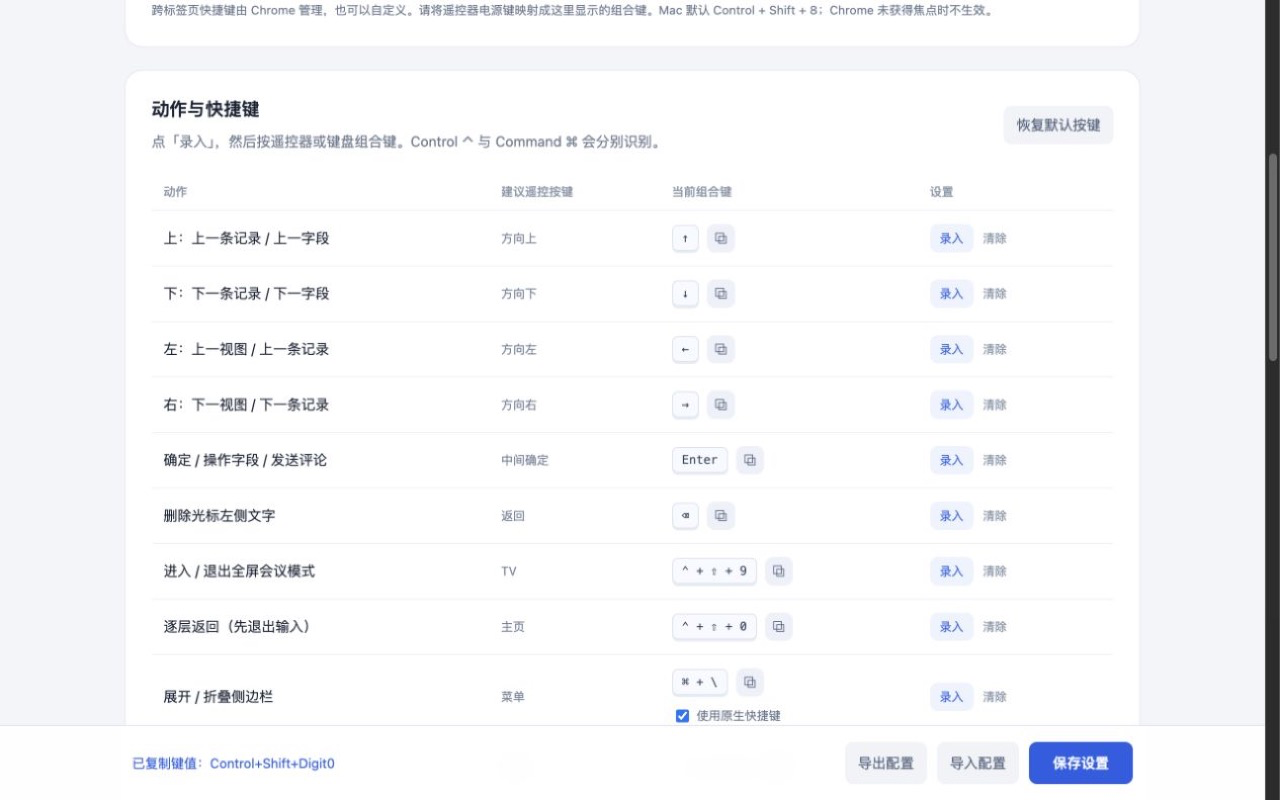
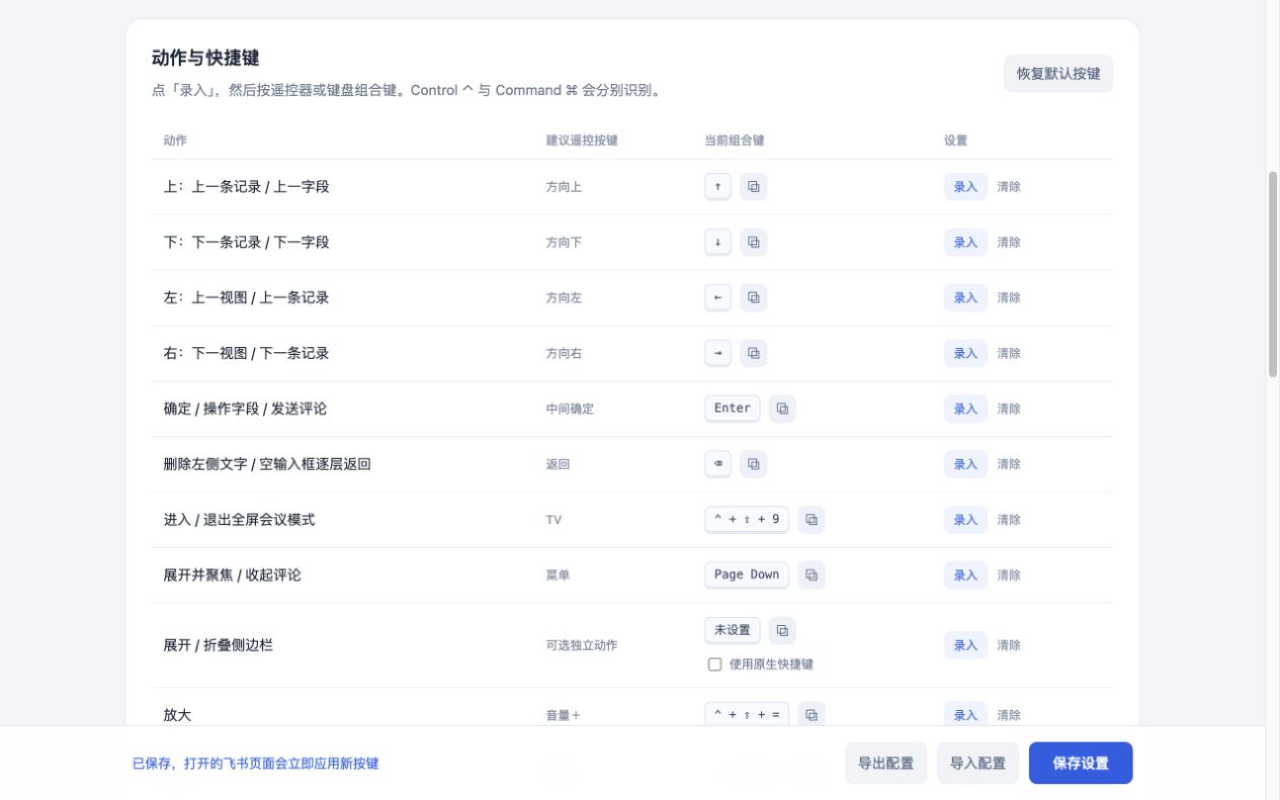
Improve remote controls and fix native field navigation

diff --git a/extension/options.html b/extension/options.html
@@ -1,9 +1,9 @@
 <!doctype html><html lang="zh-CN"><head><meta charset="utf-8"><meta name="viewport" content="width=device-width,initial-scale=1"><title>飞书会议遥控器 · 按键设置</title><link rel="icon" type="image/png" sizes="32x32" href="icons/32.png"><link rel="stylesheet" href="options.css"></head><body>
 <main><header><div class="mark"><img src="icons/256.png" width="72" height="72" alt="飞书会议遥控器"></div><div><p class="eyebrow">FEISHU MEETING REMOTE</p><h1>把遥控器，设成你的习惯。</h1><p class="intro">先在映射软件中设置按键组合，再在这里按一次对应按键。所有动作都可以修改。</p></div></header>
-<section class="setup"><div><h2>会议演示</h2><p>自动识别飞书多维表格，无需填写链接。TV 键进入全屏并开启遥控，再按一次退出会议并恢复窗口。</p></div><div class="preferences"><label><input id="autoEnable" type="checkbox"> 打开多维表格时自动进入全屏会议</label><label><input id="showHud" type="checkbox"> 显示底部操作提示</label><label>缩放步长 <input id="zoomStep" type="number" min="5" max="25" step="5"> %</label></div><p class="note">Mac 如需隐藏标签页和地址栏，请在 Chrome「显示」菜单取消勾选「在全屏模式下始终显示工具栏」，只需设置一次。</p></section>
-<section class="global-shortcut"><div class="section-top"><div><h2>电源键 · 回到会议表格</h2><p>打开超链接或切换标签页后，一键回到最近开启会议模式的多维表格。</p></div><div class="shortcut-display"><kbd id="meetingShortcut">正在读取…</kbd><button id="copyMeetingShortcut" class="copy-btn" title="复制键值" aria-label="复制电源键快捷键" disabled>⧉</button></div></div><button id="globalShortcut" class="secondary">设置电源键快捷键</button><p class="note">跨标签页快捷键由 Chrome 管理，也可以自定义。请将遥控器电源键映射成这里显示的组合键。Mac 默认 Control + Shift + 8；Chrome 未获得焦点时不生效。</p></section>
+<section class="setup"><div><h2>会议演示</h2><p>自动识别飞书多维表格，无需填写链接。TV 键进入全屏、自动收起侧边栏并开启遥控；再按一次退出会议，恢复窗口及原侧边栏状态。</p></div><div class="preferences"><label><input id="autoEnable" type="checkbox"> 打开多维表格时自动进入全屏会议</label><label><input id="showHud" type="checkbox"> 显示底部操作提示</label><label>缩放步长 <input id="zoomStep" type="number" min="5" max="25" step="5"> %</label></div><p class="note">Mac 如需隐藏标签页和地址栏，请在 Chrome「显示」菜单取消勾选「在全屏模式下始终显示工具栏」，只需设置一次。</p></section>
+<section class="global-shortcut"><div class="section-top"><div><h2>Home 键 · 回到会议表格</h2><p>打开超链接或切换标签页后，一键回到正在会议模式的多维表格。</p></div><div class="shortcut-display"><kbd id="meetingShortcut">正在读取…</kbd><button id="copyMeetingShortcut" class="copy-btn" title="复制键值" aria-label="复制 Home 键快捷键" disabled>⧉</button></div></div><button id="globalShortcut" class="secondary">设置 Home 键快捷键</button><p class="note">跨标签页快捷键由 Chrome 管理，也可以自定义。请将遥控器 Home 键映射成这里显示的组合键。新安装默认 Control + Shift + 0；升级后 Chrome 可能保留原组合键，请以此处显示为准。Chrome 未获得焦点时不生效。</p></section>
 <section><div class="section-top"><div><h2>动作与快捷键</h2><p>点「录入」，然后按遥控器或键盘组合键。Control ⌃ 与 Command ⌘ 会分别识别。</p></div><button id="restore" class="subtle">恢复默认按键</button></div><div class="table-wrap"><table><thead><tr><th>动作</th><th>建议遥控按键</th><th>当前组合键</th><th>设置</th></tr></thead><tbody id="bindings"></tbody></table></div><p class="note">有原生等价操作的项目可开启「使用原生快捷键」。开启后显示飞书原生组合键，扩展直接放行该按键；请把遥控器也映射为该组合键。关闭开关可恢复原自定义键。<a href="https://www.feishu.cn/hc/zh-CN/articles/360049067880" target="_blank" rel="noopener noreferrer">飞书官方快捷键说明</a></p><p class="note">系统和 Chrome 保留的快捷键可能先被系统处理。录入后请用下方检测区确认页面确实能收到。双击和长按动作由你的映射软件转换成不同组合键。每项旁的 ⧉ 可复制标准键值（如 Control+Shift+Digit0）。</p></section>
 <section class="tester"><div><p class="eyebrow">KEY CHECK</p><h2>按键检测</h2><p>点击开始，连续按几次遥控器，查看组合键和连发是否正确。</p><button id="testToggle" class="secondary">开始检测</button></div><div><div id="lastKey" class="last-key">等待按键</div><pre id="keyLog" aria-live="polite">检测内容仅在此页面显示。</pre></div></section>
-<section class="notes"><h2>你的会议操作</h2><p>列表：上下切记录，左右切视图，确定展开详情。详情：上下聚焦字段并滚动长文本，左右切记录，确定操作字段或在新标签页打开链接。最后一个焦点是评论入口；也可绑定「展开评论并聚焦」。菜单开关侧边栏，音量连续调缩放。</p><p>返回键只删除光标左侧文字，支持长按。Home 先退出输入状态，再收起评论、关闭详情。文字输入或选词时，方向键交给输入框。电源键负责从其他标签页找回会议表格。</p><p>语音键继续使用原来的输入法。文字落入评论框后，再按发送。有草稿时，收起评论会保留输入框；切记录、切视图或关闭详情会先要求处理草稿。</p><p>安装或更新扩展后，请刷新飞书页面。除电源键外，此页录入的按键在多维表格内容区生效。导入 / 导出仅包含这里录入的按键，电源键由 Chrome 单独保存。</p><p>数据仅在本机处理：记录文字用于定位，最近会议链接在浏览器会话中保存。<a href="https://github.com/YinsenWANG/feishu-meeting-remote/blob/main/PRIVACY.md" target="_blank" rel="noopener noreferrer">隐私政策</a></p></section>
+<section class="notes"><h2>你的会议操作</h2><p>列表：上下切记录，左右切视图，确定展开详情。详情：上下聚焦字段并滚动长文本，左右切记录，确定操作字段或在新标签页打开链接。最后一个焦点是评论入口；也可绑定「展开评论并聚焦」。菜单键切换评论，展开时自动聚焦输入框；音量连续调缩放。</p><p>返回键在有文字时删除左侧字符；输入框为空或未在输入时逐层返回：退出输入、收起评论、关闭详情。长按只连续删字，删空后松开再按才返回。文字输入或选词时，方向键交给输入框。Home 键从其他标签页找回会议表格。电源键默认留空，可选设置为「逐层返回（备用）」：有文字时也能直接退出输入而不删字；也可设置为「恢复 100%」。</p><p>语音键继续使用原来的输入法。文字落入评论框后，再按发送。有草稿时，收起评论会保留输入框；切记录、切视图或关闭详情会先要求处理草稿。</p><p>安装或更新扩展后，请刷新飞书页面。除 Home 键外，此页录入的按键在多维表格内容区生效。导入 / 导出仅包含这里录入的按键，Home 键由 Chrome 单独保存。</p><p>数据仅在本机处理：记录文字用于定位，最近会议链接在浏览器会话中保存。<a href="https://github.com/YinsenWANG/feishu-meeting-remote/blob/main/PRIVACY.md" target="_blank" rel="noopener noreferrer">隐私政策</a></p></section>
 <footer><span id="feedback" role="status"></span><div><button id="export" class="subtle">导出配置</button><button id="import" class="subtle">导入配置</button><input id="importFile" type="file" accept="application/json,.json" hidden><button id="save" class="primary">保存设置</button></div></footer>
 </main><script src="shared.js"></script><script src="options.js"></script></body></html>

diff --git a/extension/shared.js b/extension/shared.js
@@ -6,10 +6,10 @@
     ['navigateLeft','左：上一视图 / 上一条记录','方向左','ArrowLeft',false],
     ['navigateRight','右：下一视图 / 下一条记录','方向右','ArrowRight',false],
     ['confirm','确定 / 操作字段 / 发送评论','中间确定','Enter',false],
-    ['deleteBackward','删除光标左侧文字','返回','Backspace',true],
+    ['deleteBackward','删除左侧文字 / 空输入框逐层返回','返回','Backspace',true],
     ['toggle','进入 / 退出全屏会议模式','TV','Control+Shift+Digit9',false],
-    ['home','逐层返回（先退出输入）','主页','Control+Shift+Digit0',false],
-    ['toggleSidebar','展开 / 折叠侧边栏','菜单','PageDown',false],
+    ['toggleComments','展开并聚焦 / 收起评论','菜单','PageDown',false],
+    ['toggleSidebar','展开 / 折叠侧边栏','可选独立动作','',false],
     ['zoomIn','放大','音量＋','Control+Shift+Equal',true],
     ['zoomOut','缩小','音量－','Control+Shift+Minus',true],
     ['back','逐层返回（备用）','可选独立动作','Escape',false],
@@ -23,7 +23,7 @@
     ['firstView','回到首个视图','可选独立动作','',false],
     ['previousRecord','上一条记录（独立）','可选独立动作','',true],
     ['nextRecord','下一条记录（独立）','可选独立动作','',true],
-    ['resetZoom','恢复 100%','可选独立动作','',false]
+    ['resetZoom','恢复 100%','电源（可选）','',false]
   ].map(([id,label,remote,binding,repeat])=>({id,label,remote,binding,repeat}));
   const isMac=()=>typeof navigator==='undefined'||/Mac|iPhone|iPad/.test(navigator.platform||navigator.userAgent);
   const NATIVE={
@@ -33,7 +33,7 @@
   const nativeBinding=id=>NATIVE[id]?.[isMac()?'mac':'win']||'';
   const bindingFor=(id,c)=>c.nativeBindings?.[id]?nativeBinding(id):c.bindings[id];
   ACTIONS.find(a=>a.id==='openDetail').binding=nativeBinding('openDetail');
-  const DEFAULTS={schemaVersion:3,nativeBindings:{openDetail:false,toggleSidebar:false},autoEnable:false,showHud:true,zoomStep:10,bindings:Object.fromEntries(ACTIONS.map(a=>[a.id,a.binding]))};
+  const DEFAULTS={schemaVersion:4,nativeBindings:{openDetail:false,toggleSidebar:false},autoEnable:false,showHud:true,zoomStep:10,bindings:Object.fromEntries(ACTIONS.map(a=>[a.id,a.binding]))};
   const MODIFIERS=['Control','Alt','Shift','Meta'];
   function chord(e) {
     if (!e.code || /^(Control|Alt|Shift|Meta)(Left|Right)$/.test(e.code)) return '';
@@ -64,16 +64,24 @@
   function config(input={}) {
     if(!input||typeof input!=='object'||Array.isArray(input))throw new Error('配置格式无效。');
     const incoming={...(input.bindings||{})};
-    if(input.schemaVersion!==3&&input.bindings){
+    if(![3,4].includes(input.schemaVersion)&&input.bindings){
       for(const [old,id] of Object.entries({previousRecord:'navigateUp',nextRecord:'navigateDown',previousView:'navigateLeft',nextView:'navigateRight'})){
         if(Object.hasOwn(incoming,old)){if(!Object.hasOwn(incoming,id))incoming[id]=incoming[old];delete incoming[old];}
       }
       if(input.schemaVersion!==2&&Object.hasOwn(incoming,'scrollDown')&&!Object.hasOwn(incoming,'toggleSidebar')){incoming.toggleSidebar=incoming.scrollDown||'';incoming.scrollDown='';}
-      // Deletion must no longer double as Back. Home keeps its user's existing chord.
+      // Retire the old duplicate Backspace binding; the deletion action now handles returning.
       if(incoming.back&&incoming.back===(incoming.deleteBackward??DEFAULTS.bindings.deleteBackward))incoming.back='';
       if(!Object.hasOwn(incoming,'openComments')&&Object.values(incoming).includes(DEFAULTS.bindings.openComments))incoming.openComments='';
     }
-    const c={...DEFAULTS,...input,bindings:{...DEFAULTS.bindings,...incoming},nativeBindings:Object.fromEntries(Object.keys(NATIVE).map(id=>[id,input.nativeBindings?.[id]===true]))};
+    const nativeBindings=Object.fromEntries(Object.keys(NATIVE).map(id=>[id,input.nativeBindings?.[id]===true]));
+    if(input.schemaVersion!==4&&input.bindings){
+      if(!Object.hasOwn(incoming,'toggleComments')){
+        incoming.toggleComments=nativeBindings.toggleSidebar?nativeBinding('toggleSidebar'):(incoming.toggleSidebar??DEFAULTS.bindings.toggleComments);
+        incoming.toggleSidebar='';nativeBindings.toggleSidebar=false;
+      }
+      delete incoming.home; // Home is a browser command so it also works on other websites.
+    }
+    const c={...DEFAULTS,...input,bindings:{...DEFAULTS.bindings,...incoming},nativeBindings};
     if(!Number.isFinite(c.zoomStep)||c.zoomStep<5||c.zoomStep>25)throw new Error('缩放步长需要在 5–25 之间。');
     const used=new Map();
     for(const a of ACTIONS){
@@ -82,18 +90,20 @@
       if(v&&used.has(v))throw new Error(a.label+' 与「'+used.get(v).label+'」使用了相同快捷键。');
       if(v)used.set(v,a);
     }
-    return {schemaVersion:3,autoEnable:!!c.autoEnable,showHud:!!c.showHud,zoomStep:c.zoomStep,nativeBindings:c.nativeBindings,bindings:Object.fromEntries(ACTIONS.map(a=>[a.id,c.bindings[a.id]]))};
+    return {schemaVersion:4,autoEnable:!!c.autoEnable,showHud:!!c.showHud,zoomStep:c.zoomStep,nativeBindings:c.nativeBindings,bindings:Object.fromEntries(ACTIONS.map(a=>[a.id,c.bindings[a.id]]))};
   }
   function actionFor(value,c){return ACTIONS.find(a=>bindingFor(a.id,c)&&bindingFor(a.id,c)===value);}
   const DIRECTIONS={navigateUp:'up',navigateDown:'down',navigateLeft:'left',navigateRight:'right'};
-  function inputPolicy(action,chord,context,{native=false,popup=false}={}){
+  function inputPolicy(action,chord,context,{native=false,popup=false,emptyInput=false,repeat=false}={}){
     const editing=['comment','other','grid-edit'].includes(context);
+    // Holding delete may erase text, but must never cascade through return levels.
+    if(action.id==='deleteBackward'&&repeat&&(!editing||emptyInput))return 'block';
     if(editing&&/^((Control|Alt|Shift|Meta)\+)*Arrow(Up|Down|Left|Right)$/.test(chord))return 'pass';
     if(editing&&DIRECTIONS[action.id])return 'caret';
-    if(editing&&action.id==='deleteBackward'&&chord==='Backspace')return 'pass';
-    if(editing&&!['toggle','zoomIn','zoomOut','resetZoom','deleteBackward','home','back','closeComments','openComments','confirm','sendComment'].includes(action.id))return 'pass';
+    if(editing&&action.id==='deleteBackward'&&chord==='Backspace'&&!emptyInput)return 'pass';
+    if(editing&&!['toggle','zoomIn','zoomOut','resetZoom','deleteBackward','back','toggleComments','closeComments','openComments','confirm','sendComment'].includes(action.id))return 'pass';
     if(editing&&context!=='comment'&&['confirm','sendComment'].includes(action.id))return 'pass';
-    if(popup&&editing&&!['home','back','toggle'].includes(action.id))return 'pass';
+    if(popup&&editing&&!['back','toggle','toggleComments'].includes(action.id)&&!(action.id==='deleteBackward'&&emptyInput))return 'pass';
     if(native)return editing?'pass':'native';
     return 'run';
   }

diff --git a/extension/adapter.js b/extension/adapter.js
@@ -107,6 +107,7 @@
       menu.click();if(!await waitFor(()=>this.card()))throw new Error('详情未能展开。');
     }
     restoreHidden(){if(this.hiddenPanel){this.hiddenPanel.hidden=false;this.hiddenPanel.style.removeProperty('display');this.hiddenPanel=null;}}
+    async toggleComments(){return this.commentsOpen()?this.closeComments():this.openComments();}
     async openComments(){
       if(!this.card())await this.openDetail();
       this.restoreHidden();
@@ -169,6 +170,15 @@
       if(!await waitFor(()=>this.sidebarExpanded()===!expanded))throw new Error('侧边栏尚未完成切换，请稍后再试。');
       this.notify(expanded?'侧边栏已折叠':'侧边栏已展开');
     }
+    async collapseSidebarForMeeting(){
+      if(this.meetingSidebar)return;
+      const expanded=this.sidebarExpanded();this.meetingSidebar={path:location.pathname,expanded};
+      if(expanded===true)await this.toggleSidebar();
+    }
+    async restoreMeetingSidebar(){
+      const original=this.meetingSidebar;this.meetingSidebar=null;
+      if(original?.path===location.pathname&&original.expanded===true&&this.sidebarExpanded()===false)await this.toggleSidebar();
+    }
     async send(){
       if(this.sending)return;
       const editor=this.editor();if(!visible(editor))throw new Error('请先打开评论输入框。');
@@ -186,16 +196,25 @@
       const area=areas.sort((a,b)=>b.clientHeight-a.clientHeight)[0];
       if(!area){this.notify('内容已完整显示');return;}area.scrollBy({top:direction*area.clientHeight*.8,behavior:'smooth'});
     }
-    deleteBackward(){
+    inputIsEmpty(){
+      const active=document.activeElement;
+      if(!['comment','other','grid-edit'].includes(this.inputContext({target:active})))return false;
+      const editor=active?.closest('input,textarea,[contenteditable="true"]');if(!editor)return false;
+      if(editor.matches('input,textarea'))return editor.value.length===0;
+      return !(editor.textContent||'').replace(/[\u200b\ufeff]/g,'')&&!editor.querySelector('img,video,audio,[data-mention-id],[data-file-token]');
+    }
+    async deleteBackward(){
       const e=document.activeElement;if(!e)return;
-      const inComment=this.editor()?.contains(e)||e===this.editor();
       const editable=e.isContentEditable||e.matches('textarea,input:not([type="button"]):not([type="checkbox"])');
-      if(!editable||!['comment','other','grid-edit'].includes(this.inputContext({target:e})))return;
+      if(!editable||!['comment','other','grid-edit'].includes(this.inputContext({target:e}))||this.inputIsEmpty())return this.back();
       // Browser editing commands preserve the editor's input events and undo stack.
       document.execCommand('delete',false);
     }
     inputContext(e){
       const node=e.target?.nodeType===1?e.target:document.activeElement;
+      // URL field links inherit contenteditable from Feishu's rich-text wrapper.
+      // A link explicitly focused by field navigation is still an action, not a caret.
+      if(this.fieldFocus?.element===node&&node.hasAttribute('data-fmr-target'))return 'none';
       const editable=node?.closest('input,textarea,[contenteditable="true"]');
       if(!editable||!visible(editable)||getComputedStyle(editable).opacity==='0'||editable.disabled||editable.readOnly||editable.matches('input[type="button"],input[type="checkbox"],input[type="radio"],input[type="submit"],input[type="range"],input[type="file"],input[type="color"]'))return 'none';if(this.editor()?.contains(editable)||editable===this.editor())return 'comment';
       if(editable.closest('.faster-overlay')){

diff --git a/extension/content.js b/extension/content.js
@@ -24,7 +24,7 @@
     shadow.querySelector('.bar').classList.toggle('paused',!enabled);
     const setText=(el,text)=>{if(el.textContent!==text)el.textContent=text;};
     status.style.color='#fff';setText(status,enabled?adapter.state()+' · '+Math.round(zoom*100)+'%':'会议模式已关闭');
-    setText(shadow.querySelector('.help'),enabled?`${adapter.card()?'上下浏览字段 · 左右换记录':'上下换记录 · 左右换视图'}　${M.label(config.bindings.confirm)} 确定　${M.label(config.bindings.home)} 返回`:`按 ${M.label(config.bindings.toggle)} 进入全屏 · ${adapter.viewName()}`);
+    setText(shadow.querySelector('.help'),enabled?`${adapter.card()?'上下浏览字段 · 左右换记录':'上下换记录 · 左右换视图'}　${M.label(config.bindings.confirm)} 确定　${M.label(config.bindings.deleteBackward)} 返回`:`按 ${M.label(config.bindings.toggle)} 进入全屏 · ${adapter.viewName()}`);
     setText(shadow.querySelector('.toggle'),enabled?'退出会议':'进入全屏');
   }
   async function zoomAction(direction){const r=await chrome.runtime.sendMessage({type:'zoom',direction});if(!r?.ok)throw new Error(r?.error||'缩放失败');zoom=r.zoom;notify('缩放 '+Math.round(zoom*100)+'%');}
@@ -38,6 +38,7 @@
       if(remember)sessionStorage.setItem(modeKey(),String(value));
       if(!enabled){adapter.restoreHidden();adapter.clearFieldFocus();}
       update();
+      try{if(enabled)await adapter.collapseSidebarForMeeting();else await adapter.restoreMeetingSidebar();}catch(e){notify(e.message,true);}
       if(enabled&&!adapter.card()){try{await adapter.ensureSelection();}catch(e){notify(e.message,true);}}
       return {ok:true,enabled};
     }catch(e){notify(e.message,true);return {ok:false,error:e.message};}
@@ -78,10 +79,10 @@
         case 'nextRecord':await adapter.moveRecord(1);break;
         case 'confirm':await adapter.confirm();break;
         case 'back':await adapter.back();break;
-        case 'home':await adapter.back();break;
         case 'firstView':await adapter.firstView();break;
         case 'toggleSidebar':await adapter.toggleSidebar();break;
-        case 'deleteBackward':adapter.deleteBackward();break;
+        case 'deleteBackward':await adapter.deleteBackward();break;
+        case 'toggleComments':await adapter.toggleComments();break;
         case 'scrollDown':adapter.scroll(1);break;
         case 'scrollUp':adapter.scroll(-1);break;
         case 'openDetail':await adapter.openDetail();break;
@@ -101,11 +102,12 @@
     if(composing||e.isComposing||e.keyCode===229)return;
     const action=M.actionFor(M.chord(e),config);if(!action||(!enabled&&action.id!=='toggle'))return;
     const context=adapter.inputContext(e);
-    const policy=M.inputPolicy(action,M.chord(e),context,{native:config.nativeBindings[action.id],popup:adapter.editorPopupOpen()});
+    const policy=M.inputPolicy(action,M.chord(e),context,{native:config.nativeBindings[action.id],popup:adapter.editorPopupOpen(),emptyInput:action.id==='deleteBackward'&&adapter.inputIsEmpty(),repeat:e.repeat});
     if(policy==='pass'||policy==='native')return;
     if(context==='comment'&&Date.now()-compositionEnded<200&&['confirm','sendComment'].includes(action.id))return;
     if(policy==='caret'){e.preventDefault();e.stopImmediatePropagation();adapter.moveCaret(M.DIRECTIONS[action.id]);return;}
     e.preventDefault();e.stopImmediatePropagation();
+    if(policy==='block')return;
     if(e.repeat&&!action.repeat)return;
 
     const time=Date.now(),last=timings.get(action.id)||0,delay=M.keyDelay(action,context);

diff --git a/extension/field-navigation.js b/extension/field-navigation.js
@@ -3,16 +3,28 @@
   const M=globalThis.MeetingRemote, A=M.FeishuAdapter.prototype;
   const FIELD='.bitable-record-card-field-wrapper, .card-field-editor';
   const EDITOR='[contenteditable="true"], textarea, input:not([type="hidden"]):not([type="file"]):not([type="checkbox"]):not([type="radio"])';
-  const shown=e=>M.visible(e)&&!e.closest('[hidden],[aria-hidden="true"]');
+  const shown=e=>{
+    if(!M.visible(e)||e.closest('[hidden],[aria-hidden="true"]'))return false;
+    // Feishu keeps collapsed option lists laid out inside zero-height clipping containers.
+    // Their descendants have nonzero rectangles but cannot be seen or operated.
+    for(let parent=e.parentElement;parent;parent=parent.parentElement){
+      const style=getComputedStyle(parent),rect=parent.getBoundingClientRect();
+      if(style.opacity==='0'||style.visibility==='hidden'||style.display==='none')return false;
+      if((rect.height<=0&&/hidden|clip|auto|scroll/.test(style.overflowY||style.overflow))||
+         (rect.width<=0&&/hidden|clip|auto|scroll/.test(style.overflowX||style.overflow)))return false;
+    }
+    return true;
+  };
   const usable=e=>shown(e)&&!e.disabled&&!e.readOnly&&getComputedStyle(e).opacity!=='0';
   const label=field=>field.querySelector('.bitable-card-field-label__name')?.textContent.trim()||'字段';
   const arrow={up:'ArrowUp',down:'ArrowDown',left:'ArrowLeft',right:'ArrowRight'};
 
   A.clearFieldFocus=function(){
     if(this.fieldFocus){
-      const {field,element,tabindex}=this.fieldFocus;
+      const {field,element,tabindex,focusElement,focusTabindex}=this.fieldFocus;
       field.removeAttribute('data-fmr-focused');element.removeAttribute('data-fmr-target');
       if(tabindex===null)element.removeAttribute('tabindex');else element.setAttribute('tabindex',tabindex);
+      if(focusElement&&focusElement!==element){if(focusTabindex===null)focusElement.removeAttribute('tabindex');else focusElement.setAttribute('tabindex',focusTabindex);}
     }
     this.fieldFocus=null;
   };
@@ -37,10 +49,14 @@
   };
   A.focusStop=function(stop){
     this.clearFieldFocus();
-    this.fieldFocus={...stop,tabindex:stop.element.getAttribute('tabindex'),record:this.cardRecordId()};
+    // Focusing an anchor inside contenteditable can move the caret into its editor.
+    // Keep keyboard focus on the field while highlighting and activating its exact link.
+    const focusElement=stop.kind==='link'?stop.field:stop.element;
+    this.fieldFocus={...stop,focusElement,focusTabindex:focusElement.getAttribute('tabindex'),tabindex:stop.element.getAttribute('tabindex'),record:this.cardRecordId()};
     stop.element.setAttribute('tabindex','-1');
+    focusElement.setAttribute('tabindex','-1');
     stop.field.setAttribute('data-fmr-focused','');stop.element.setAttribute('data-fmr-target','');
-    stop.element.focus({preventScroll:true});
+    focusElement.focus({preventScroll:true});
     stop.element.scrollIntoView({block:'nearest',inline:'nearest',behavior:'instant'});
     this.notify(stop.kind==='comment'?'评论 · 按确定开始输入':label(stop.field)+(stop.kind==='link'?' · 按确定在新标签页打开':' · 按确定操作'));
   };

diff --git a/extension/options.js b/extension/options.js
@@ -47,9 +47,9 @@
   for(const id of ['autoEnable','showHud','zoomStep'])$(id).addEventListener('input',()=>{dirty=true;});
   $('save').onclick=async()=>{try{config=readForm();await chrome.storage.local.set({config});dirty=false;feedback('已保存，打开的飞书页面会立即应用新按键');}catch(e){feedback(e.message,true);}};
   $('restore').onclick=()=>{config.bindings={...M.DEFAULTS.bindings};config.nativeBindings={...M.DEFAULTS.nativeBindings};recording=null;dirty=true;render(false);feedback('已恢复默认按键，保存后生效');};
-  $('export').onclick=()=>{try{const data=readForm();const url=URL.createObjectURL(new Blob([JSON.stringify({format:'feishu-meeting-remote',version:3,config:data},null,2)],{type:'application/json'}));const a=document.createElement('a');a.href=url;a.download='飞书会议遥控器-按键配置.json';a.click();setTimeout(()=>URL.revokeObjectURL(url),1000);}catch(e){feedback(e.message,true);}};
+  $('export').onclick=()=>{try{const data=readForm();const url=URL.createObjectURL(new Blob([JSON.stringify({format:'feishu-meeting-remote',version:4,config:data},null,2)],{type:'application/json'}));const a=document.createElement('a');a.href=url;a.download='飞书会议遥控器-按键配置.json';a.click();setTimeout(()=>URL.revokeObjectURL(url),1000);}catch(e){feedback(e.message,true);}};
   $('import').onclick=()=>$('importFile').click();
-  $('importFile').onchange=async()=>{const file=$('importFile').files[0];if(!file)return;try{if(file.size>64000)throw new Error('配置文件过大');const obj=JSON.parse(await file.text());if(obj.format!=='feishu-meeting-remote'||![1,2,3].includes(obj.version))throw new Error('不是此扩展的配置文件');config=M.config(obj.config);recording=null;dirty=true;render();feedback('已导入，请检查后保存');}catch(e){feedback('导入失败：'+e.message,true);}finally{$('importFile').value='';}};
+  $('importFile').onchange=async()=>{const file=$('importFile').files[0];if(!file)return;try{if(file.size>64000)throw new Error('配置文件过大');const obj=JSON.parse(await file.text());if(obj.format!=='feishu-meeting-remote'||![1,2,3,4].includes(obj.version))throw new Error('不是此扩展的配置文件');config=M.config(obj.config);recording=null;dirty=true;render();feedback('已导入，请检查后保存');}catch(e){feedback('导入失败：'+e.message,true);}finally{$('importFile').value='';}};
   async function refreshGlobalShortcut(){
     try{const commands=await chrome.commands.getAll();const value=commands.find(c=>c.name==='return-to-meeting')?.shortcut||'';$('meetingShortcut').textContent=value||'未设置，请点击下方按钮';$('copyMeetingShortcut').disabled=!value;$('copyMeetingShortcut').onclick=()=>copyValue(value);}
     catch{$('meetingShortcut').textContent='请在 Chrome 扩展快捷键中设置';}

diff --git a/extension/background.js b/extension/background.js
@@ -47,22 +47,18 @@ async function presentation(sender,enabled){
 }
 async function returnToMeeting(){
   const {lastMeeting:last}=await chrome.storage.session.get('lastMeeting');
-  if(!last||!M.target(last.url))throw new Error('请先在一个多维表格中开启会议模式。');
-  let tab;
-  try {tab=await chrome.tabs.get(last.tabId);}catch{}
-  if(tab&&M.sameDocument(tab.pendingUrl||tab.url,last.url)){
+  const sessions=await readSessions(),active=Object.values(sessions).flatMap(session=>session.tabs);
+  const candidates=[...new Set([last?.tabId,...active.slice().reverse()])].filter(id=>active.includes(id));
+  for(const id of candidates){
+    let tab;try{tab=await chrome.tabs.get(id);}catch{continue;}
+    const url=tab.pendingUrl||tab.url;
+    if(!M.target(url)||(id===last?.tabId&&!M.sameDocument(url,last.url)))continue;
     await chrome.tabs.update(tab.id,{active:true});
     await chrome.windows.update(tab.windowId,{focused:true});
-  }else{
-    // Preserve a different page now occupying the original meeting tab.
-    let windowId;
-    try {await chrome.windows.get(last.windowId);windowId=last.windowId;}catch{}
-    tab=await chrome.tabs.create({url:last.url,active:true,...(windowId===undefined?{}:{windowId})});
-    await chrome.windows.update(tab.windowId,{focused:true});
-    await chrome.storage.session.set({lastMeeting:{...last,tabId:tab.id,windowId:tab.windowId}});
+    await chrome.storage.session.set({lastMeeting:{tabId:tab.id,windowId:tab.windowId,url}});
+    await chrome.action.setBadgeText({text:''});return {ok:true};
   }
-  await chrome.action.setBadgeText({text:''});
-  return {ok:true};
+  throw new Error('请先在一个多维表格中开启会议模式。');
 }
 chrome.runtime.onInstalled.addListener(async ({reason})=>{
   const stored=await chrome.storage.local.get('config');

diff --git a/extension/popup.html b/extension/popup.html
@@ -1,1 +1,1 @@
-<!doctype html><html lang="zh-CN"><head><meta charset="utf-8"><title>飞书会议遥控器</title><link rel="icon" type="image/png" sizes="32x32" href="icons/32.png"><link rel="stylesheet" href="popup.css"></head><body><div class="brand"><img src="icons/128.png" width="36" height="36" alt=""> <span>飞书会议遥控器</span></div><p id="status">正在连接页面…</p><button id="toggle" class="primary" disabled>进入全屏会议模式</button><button id="returnMeeting">回到最近的会议表格</button><button id="settings">自定义按键与检测</button><p class="hint">首次安装或更新后，刷新飞书页面。</p><script src="popup.js"></script></body></html>
+<!doctype html><html lang="zh-CN"><head><meta charset="utf-8"><title>飞书会议遥控器</title><link rel="icon" type="image/png" sizes="32x32" href="icons/32.png"><link rel="stylesheet" href="popup.css"></head><body><div class="brand"><img src="icons/128.png" width="36" height="36" alt=""> <span>飞书会议遥控器</span></div><p id="status">正在连接页面…</p><button id="toggle" class="primary" disabled>进入全屏会议模式</button><button id="returnMeeting">Home · 回到会议表格</button><button id="settings">自定义按键与检测</button><p class="hint">首次安装或更新后，刷新飞书页面。</p><script src="popup.js"></script></body></html>

diff --git a/store/LISTING.zh-CN.md b/store/LISTING.zh-CN.md
@@ -1,8 +1,8 @@
-# Chrome Web Store 提交资料 · v1.0.0
+# Chrome Web Store 提交资料 · v1.1.0
 
 ## 上传文件
 
-- 扩展 ZIP：`feishu-meeting-remote-1.0.0-chrome.zip`。ZIP 根目录直接包含 manifest.json，可直接上传；不要上传源码压缩包。
+- 扩展 ZIP：`feishu-meeting-remote-1.1.0-chrome.zip`。ZIP 根目录直接包含 manifest.json，可直接上传；不要上传源码压缩包。
 - 图标：`icon-128.png`。
 - 截图：`快捷键设置-1280x800.png`。来自正式设置页的本地预览，只含通用配置。
 - 小型宣传图：`宣传图-440x280.png`。
@@ -29,10 +29,10 @@
 
 • 列表中上下切记录，左右切视图；详情中上下聚焦字段，左右切记录。
 • 长文本逐段滚动；聚焦超链接后，按确定在新标签页打开。
-• Home 先退出输入，再收起评论、关闭详情；返回键只负责删除文字。
+• Home 跨标签页回到会议表格；返回键有文字时删除，空输入框或非输入时逐层返回。
 • 输入时保留原生方向键和输入法选词；兼容已有语音输入法。
 • 每个动作可自定义；支持原生快捷键开关、复制键值、按键检测及配置导入导出。
-• TV 进入或退出全屏会议；电源键从其他标签页回到会议表格。
+• TV 进入全屏并自动收起侧边栏，退出时恢复；菜单键切换评论并自动聚焦。
 • 连续缩放，保护未发送的评论草稿。
 
 无需配置固定表格链接，适用于不同租户的飞书多维表格。需已有飞书页面访问权限。记录导航目前针对表格视图和标准记录详情卡片，其他布局可能需要适配。
@@ -58,15 +58,15 @@ storage 权限说明：保存用户自定义快捷键、原生按键开关、缩
 1. 使用有多维表格访问权限的飞书账号，在 Chrome 打开一个测试用表格视图。可自行建一个含标题、长文本、超链接字段的测试表，至少三条记录。
 2. 安装扩展后刷新页面，在扩展菜单点击「进入全屏会议模式」。也可使用设置页显示的 TV 组合键。
 3. 列表上下选择记录、左右切视图、Enter 展开详情。详情上下选择字段，长文本继续上下滚动；左右切记录。聚焦超链接，Enter 打开新标签页。
-4. 进入评论后输入测试文字，方向键移动光标，Backspace 删除左侧文字。Control+Shift+0 先退出输入，再按一次收起评论并保留草稿；发送或清空草稿后可继续关闭详情。
+4. 进入评论后输入测试文字，方向键移动光标，Backspace 删除左侧文字。菜单键 PageDown 收起或展开评论并保留草稿。清空后按 Backspace 先退出输入，再按收起评论，最后关闭详情；长按不会连续返回。
 5. 在设置页启用侧边栏「使用原生快捷键」，保存并按显示的组合键。Mac 为 Command+Backslash。复制按钮应复制 `Meta+Backslash`。
-6. 在 Chrome 的扩展快捷键页面设置「回到最近的会议多维表格」，切到其他网页后按该组合键验证返回。
+6. 在 Chrome 的扩展快捷键页面设置「Home 键：回到正在会议模式的多维表格」，将 Home 映射为显示的实际组合键，切到其他网页后按 Home 验证返回。
 
 本扩展不提供飞书账号，发布材料不含任何内部表格或账号凭据。如审核团队要求受限账号测试，发布者需通过审核后台提供合适的专用测试方式。
 
 ## 提交顺序
 
-上传 ZIP → 填写商店详情与图片 → 填写隐私实践并关联隐私政策 → 完成分发设置 → 提交审核。版本号已为 1.0.0；若之后修改已上传的代码，请递增版本号。
+上传 ZIP → 填写商店详情与图片 → 填写隐私实践并关联隐私政策 → 完成分发设置 → 提交审核。版本号已为 1.1.0；若之后修改已上传的代码，请递增版本号。
 
 以上材料已按 Chrome 官方文档核对：
 - [准备扩展与 ZIP 根目录要求](https://developer.chrome.com/docs/webstore/prepare)

diff --git a/docs/TESTING.md b/docs/TESTING.md
@@ -1,24 +1,30 @@
-# v1.0.0 验证记录
+# v1.1.0 验证记录
 
-日期：2026-10-22
+日期：2026-10-23
 
-## 本地自动检查
+## 自动检查
 
-43 项自动检查通过。覆盖：配置迁移、按键冲突、原生开关与自定义键恢复、复制按钮、不同租户链接识别、字段焦点与多链接、长文本滚动、方向键输入策略、自定义光标移动、Home 分层返回、草稿保护、重复发送保护、快速缩放队列、窗口恢复、最近会议标签找回及链接协议校验。
+51 项检查通过。覆盖配置迁移、按键冲突、原生开关、自定义键恢复、复制按钮、跨租户地址识别、字段焦点、多链接、折叠容器、长文本滚动、文字输入与光标、空框返回、长按保护、菜单切换评论、草稿保护、重复发送保护、快速缩放、窗口与侧边栏恢复、Home 查找仍在会议模式的标签页以及链接协议校验。
 
-## Chrome 浏览器检查
+## v1.1.0 Chrome 示例页面
 
-- 使用真实键盘事件，在虚构示例页面运行与发布包相同的适配器、方向键处理和设置页代码；Chrome 后台接口由测试页面模拟。
-- 上下逐字段聚焦，长字段滚动到底后进入链接；左右切换记录。
-- OK 进入编辑，原生方向键保持输入状态，不切记录。
-- 评论 `ABC` 中左移再删除得到 `AC`；Home 先退出输入，再次 Home 收起评论，保留 `AC` 草稿。
-- 设置页开启原生侧边栏组合键，保存设置；复制 Home 键值并实际粘贴，得到 `Control+Shift+Digit0`。
-- 在真实飞书页面核对标准详情字段、原生链接、隐藏输入框和滚动容器结构。
-- 在真实飞书页面核对单元格单击选中时的微型隐藏编辑器，与双击后展开编辑器的区别；仅展开编辑器被视为文字输入，防止删除选中的整格内容。
-- 真实飞书页面中 Command + Backslash 成功折叠和展开侧边栏，随后恢复原状态。
+使用真实键盘事件，运行与发布包相同的适配器和按键处理代码；示例数据为虚构内容，Chrome 后台接口由测试页面模拟。
 
-## 发布范围与后续设备验收
+- 隐藏于零高度容器内的选项列表不再吞掉上下导航。
+- 长文本按段滚动，到边界后进入下一个字段。
+- 嵌在 contenteditable 里的链接通过字段容器持有键盘焦点，Enter 成功在新标签页打开对应网页。
+- 菜单键收起评论，再按展开并聚焦。输入 ABC、左移并删除得到 AC；收起再展开仍保留草稿。
+- 空评论框按 Backspace 先退出输入，再按收起评论。
+- TV 退出会议恢复原来展开的侧边栏，再次开启会议折叠侧边栏。
 
-浏览器工具禁止操作 Chrome 扩展管理页，因此加载更新必须由使用者手动完成。真实飞书页面的整合运行、遥控器长按和系统语音输入法需要使用者加载正式版后确认。未在内部表格发布测试评论或修改字段数据。
+## 真实飞书页面观察与已验证行为
+
+在 v1.0.0 安装后验证了列表上下切记录、左右切视图、Enter 展开详情、详情左右切记录、字段进入编辑、输入时方向键不切记录、空评论框方向键和删除，以及当时的 Home 三层返回。连续三次缩放从 100% 到 130%，再连续恢复 100%。未在内部表格发送测试评论或更改字段内容。
+
+该次实测发现折叠选项列表被误当作长文本，以及富文本链接被误当作输入状态；这些问题已在 v1.1.0 中修复，并加入回归测试与 Chrome 示例按键验证。
+
+## 需要安装更新后复核
+
+v1.1.0 的真实飞书整合验证、遥控器长按和系统语音输入法仍需在使用者加载后复核。浏览器工具禁止操作 Chrome 扩展管理页，重新加载必须由使用者手动完成。Home 的实际组合键以 Chrome 设置页显示为准。
 
 Chrome Web Store 的审核结果由平台决定；本文件不表示扩展已经通过审核。

diff --git a/CHANGELOG.md b/CHANGELOG.md
@@ -1,5 +1,16 @@
 # 更新记录
 
+## 1.1.0 · 2026-10-23
+
+- Home 改为跨标签页回到正在会议模式的多维表格，电源键默认留空。
+- 菜单键改为切换评论，展开时自动聚焦，收起时保留草稿。
+- TV 开启全屏时自动收起侧边栏，退出时恢复原状态。
+- 返回键在有文字时删除左侧字符；空输入框或非输入状态下逐层返回。长按删除不会连续退出多个界面。
+- 跳过折叠容器里的预渲染选项，修复上下导航在同一字段停留的问题。
+- 链接高亮时将键盘焦点留在字段容器，防止原生富文本编辑器抢走 Enter；无需修改已有链接字段。
+- 保留原生快捷键开关及每项复制按钮，旧菜单组合键自动迁移。Home 的跨标签页组合键仍由 Chrome 单独管理。
+- 51 项自动检查、Chrome 示例页面真实按键测试通过；真实飞书验证范围见 docs/TESTING.md。
+
 ## 1.0.0 · 2026-10-22
 
 首个开源正式版本。
